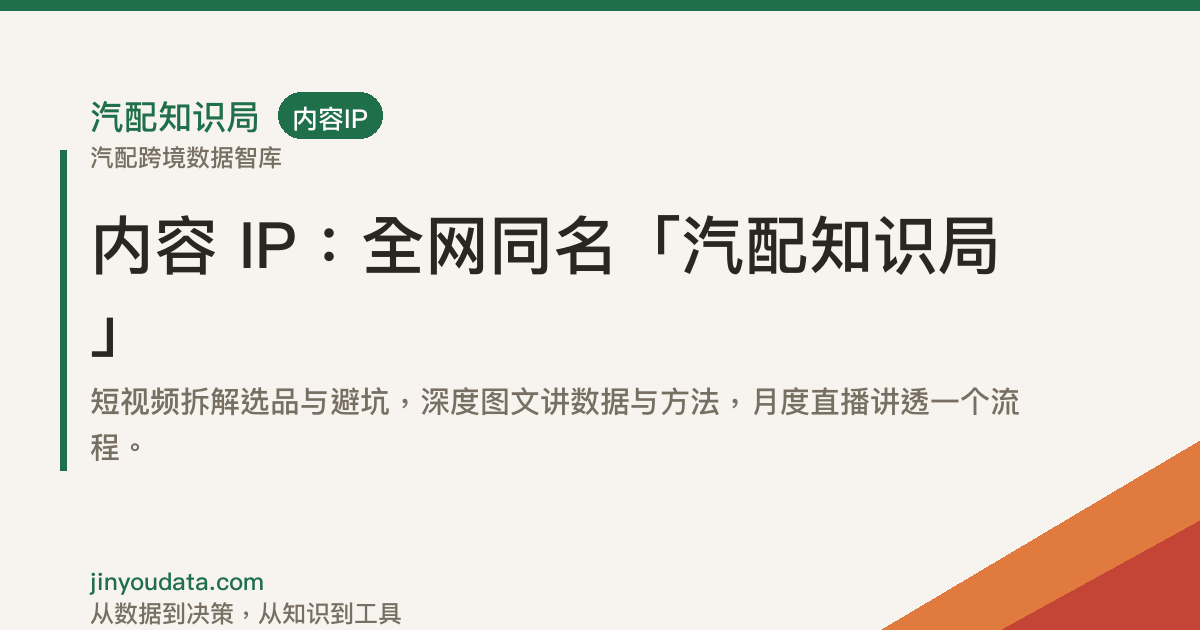
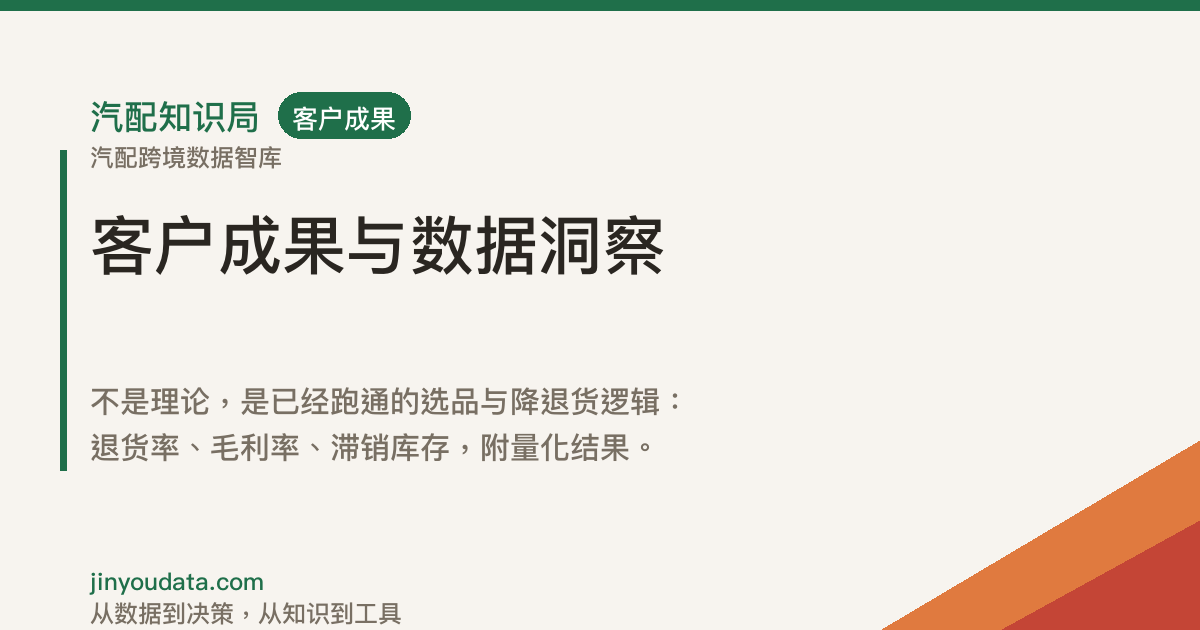
服务目录知识库最终瘦身：下线「内容 IP」卡片及遗留数据、6 项统一免费、PC 端 3×2 网格；全站价格口径与 OG/面包屑同步

diff --git a/lib/data.ts b/lib/data.ts
@@ -1,4 +1,4 @@
-import type { Product, ContentItem, CaseStudy, Partner, Library } from "./types";
+import type { Product, CaseStudy, Partner, Library } from "./types";
 import { fetchTable } from "./supabase";
 
 /* ============================================================
@@ -8,7 +8,7 @@ import { fetchTable } from "./supabase";
    ============================================================ */
 
 export const FALLBACK_PRODUCTS: Product[] = [
-  /* ================= 板块一 · 知识库（免费 / ¥9.9 体验价 · 构建行业认知） ================= */
+  /* ================= 板块一 · 知识库（6 项全部免费 · 加微即得 · 构建行业认知） ================= */
   {
     id: 4, slug: "knowledge-base", name: "避坑指南", icon: "book-open", library: "kb", category: "knowledge",
     positioning: "12,000+ 条踩过的坑，按场景一条条写清楚",
@@ -24,8 +24,8 @@ export const FALLBACK_PRODUCTS: Product[] = [
     problem: "决策缺数据支撑，拍脑袋交学费",
     audience: "需要决策依据的经营者与平台团队",
     deliverable: "完整报告文档 · 数据来源与口径全部注明",
-    price: "¥9.9 · 体验价",
-    cta_type: "buy", third_party_url: null, third_party_platform: "企业微信", planet_url: null,
+    price: "免费 · 联系即得",
+    cta_type: "claim", third_party_url: null, third_party_platform: "企业微信", planet_url: null,
   },
   {
     id: 2, slug: "sop-checklists", name: "合规 SOP 清单", icon: "list-checks", library: "kb", category: "knowledge",
@@ -51,8 +51,8 @@ export const FALLBACK_PRODUCTS: Product[] = [
     problem: "想提效但不知道好用的表格长什么样",
     audience: "有现成业务、想立刻提效的团队",
     deliverable: "选品评分表 / 供应商评估表 / 库存周转表 / 客服话术库",
-    price: "¥9.9 · 体验价",
-    cta_type: "buy", third_party_url: null, third_party_platform: "企业微信", planet_url: null,
+    price: "免费 · 联系即得",
+    cta_type: "claim", third_party_url: null, third_party_platform: "企业微信", planet_url: null,
   },
   {
     id: 6, slug: "case-library", name: "案例库", icon: "folder-open", library: "kb", category: "knowledge",
@@ -60,17 +60,8 @@ export const FALLBACK_PRODUCTS: Product[] = [
     problem: "想知道别人是怎么解决同类问题的",
     audience: "想直接看别人怎么解决的务实派",
     deliverable: "图文案例 · 内部资料库专栏",
-    price: "免费 · 申请解锁",
+    price: "免费 · 联系即得",
     cta_type: "claim", third_party_url: null, third_party_platform: "企业微信", planet_url: null,
-  },
-  {
-    id: 1, slug: "content-ip", name: "内容 IP", icon: "video", library: "kb", category: "knowledge",
-    positioning: "全网同名「汽配知识局」的短视频、图文与直播",
-    problem: "不了解我们，想先通过内容判断专业度",
-    audience: "所有汽配人，尤其是想先看看再决定的人",
-    deliverable: "短视频 / 深度图文 / 月度直播（回放沉淀进知识库）",
-    price: "免费 · 全网公开",
-    cta_type: "claim", third_party_url: null, third_party_platform: null, planet_url: null,
   },
 
   /* ================= 板块二 · 工具库（¥99 – ¥299 · 现成工具，直接落地） ================= */
@@ -152,14 +143,8 @@ export const FALLBACK_PRODUCTS: Product[] = [
   },
 ];
 
-export const FALLBACK_CONTENTS: ContentItem[] = [
-  { id: 1, title: "刹车片选品避坑：这 3 种货打死不能进", type: "短视频", platform: "抖音", link: "#", summary: "选品避坑、货源鉴别。", metric: "42万播放", date: "3 天前" },
-  { id: 2, title: "跨境汽配爆款拆解：利润藏在适配数据里", type: "短视频", platform: "B站", link: "#", summary: "跨境选品逻辑拆解。", metric: "18万播放", date: "1 周前" },
-  { id: 3, title: "电商渠道汽配类目 2026 价格带全景图", type: "图文", platform: "公众号", link: "#", summary: "价格带分析与决策参考。", metric: "1.2万阅读", date: "2 天前" },
-  { id: 4, title: "修理厂供应链怎么理：一场直播讲透", type: "直播回放", platform: "视频号", link: "#", summary: "供应链全流程直播。", metric: "8600 观看", date: "上周" },
-  { id: 5, title: "适配数据踩坑实录：一个 SKU 赔掉 2 万块", type: "图文", platform: "公众号", link: "#", summary: "真实踩坑复盘。", metric: "2.4万阅读", date: "1 周前" },
-  { id: 6, title: "和修理厂老板聊进货：他一年省了 18 万", type: "短视频", platform: "抖音", link: "#", summary: "真实对话访谈。", metric: "65万播放", date: "2 周前" },
-];
+/* 原「内容 IP」短视频 / 图文 / 直播兜底数据已于 2026-11-15 整体下线：
+   全站没有任何页面再消费 contents 表，卡片与数据都不留。 */
 
 export const FALLBACK_CASES: CaseStudy[] = [
   {
@@ -261,7 +246,14 @@ function sanitizeRow<T extends Record<string, unknown>>(row: T): T {
 }
 
 /** 已下线的产品 slug：即使数据库里还有旧记录，也不允许再出现在站点上 */
-const RETIRED_PRODUCT_SLUGS = new Set(["courses", "annual-pass", "corporate-training"]);
+const RETIRED_PRODUCT_SLUGS = new Set([
+  "courses",
+  "annual-pass",
+  "corporate-training",
+  // 2026-11-15 服务目录瘦身：「内容 IP」不直接产生交易，卡片已整体下线。
+  // 即使数据库里还留着旧记录，也不允许它回到官网。
+  "content-ip",
+]);
 
 /**
  * 代码里的产品目录 = 唯一真源（2026-11-14 三库定调，全站封板）。
@@ -323,10 +315,6 @@ export async function getProducts(): Promise<Product[]> {
   return [...FALLBACK_PRODUCTS, ...extras].map(
     (p) => sanitizeRow(p as unknown as Record<string, unknown>) as unknown as Product
   );
-}
-export async function getContents(): Promise<ContentItem[]> {
-  const rows = (await fetchTable<ContentItem>("contents")) ?? FALLBACK_CONTENTS;
-  return rows.map((r) => sanitizeRow(r as unknown as Record<string, unknown>) as unknown as ContentItem);
 }
 export async function getCases(): Promise<CaseStudy[]> {
   const rows = (await fetchTable<CaseStudy>("cases")) ?? FALLBACK_CASES;

diff --git a/app/reports/page.tsx b/app/reports/page.tsx
@@ -15,7 +15,7 @@ import { getProducts } from "@/lib/data";
 
 export const metadata: Metadata = buildMetadata({
   title: "报告与数据产品",
-  description: "行业报告（品类数据、价格带、竞争格局、趋势预判，¥9.9 体验价）与数据库会员（金游智库·专属查询账号，Client 只读，312 万 SKU 无限次查询，¥999 / 年）。",
+  description: "行业报告（品类数据、价格带、竞争格局、趋势预判，全部免费，加微即得）与数据库会员（金游智库·专属查询账号，Client 只读，312 万 SKU 无限次查询，¥999 / 年）。",
   path: "/reports",
   keywords: [KEYWORDS.data, KEYWORDS.nev, KEYWORDS.compliance, KEYWORDS.oe],
 });
@@ -25,19 +25,19 @@ const REPORTS = [
     name: "《中国汽配电商价格带全景 2026》",
     metric: "覆盖 12 个主流品类 · 4 个平台",
     desc: "每个品类的成交价格带分布、头部集中度、低价区陷阱，附选品价格定位建议。",
-    price: "¥9.9",
+    price: "免费 · 联系即得",
   },
   {
     name: "《跨境汽配（俄罗斯 / 欧美 / 东南亚）机会地图》",
     metric: "3 平台 · 9 个高潜品类",
     desc: "真实成交数据拆毛利结构：汇率、物流、佣金、退货，算清楚到手多少钱。",
-    price: "¥9.9",
+    price: "免费 · 联系即得",
   },
   {
     name: "《修理厂采购渠道现状调研》",
     metric: "217 份有效样本 · 6 省",
     desc: "修理厂从哪进货、为什么换供应商、对账期和适配准确率的真实要求。",
-    price: "¥9.9",
+    price: "免费 · 联系即得",
   },
 ];
 
@@ -96,7 +96,7 @@ export default async function ReportsPage() {
                   <h3 className="text-base font-bold leading-snug">{r.name}</h3>
                   <p className="text-sm leading-relaxed text-muted-foreground">{r.desc}</p>
                   <div className="mt-auto flex items-center justify-between border-t border-dashed pt-3">
-                    <span className="text-lg font-bold text-brand-red">{r.price}</span>
+                    <span className="whitespace-nowrap text-sm font-bold text-brand-red">{r.price}</span>
                     {full && <ProductCta product={full} />}
                   </div>
                 </CardContent>
@@ -106,7 +106,7 @@ export default async function ReportsPage() {
           {brief && (
             <div className="mt-6 flex flex-col items-center gap-2 rounded-xl bg-brand-green-soft p-5 text-center sm:flex-row sm:justify-between sm:text-left">
               <p className="text-sm">
-                <span className="font-bold">不想先花钱？</span>每份报告都有精华摘要版：核心数据 + 趋势判断 + 一页决策建议，免费领。
+                <span className="font-bold">不确定先看哪份？</span>每份报告都有精华摘要版：核心数据 + 趋势判断 + 一页决策建议，免费领。
               </p>
               <Button asChild variant="default" size="sm">
                 <Link href="/contact">

diff --git a/app/api/ai/route.ts b/app/api/ai/route.ts
@@ -16,7 +16,7 @@ const BodySchema = z.object({
     .max(20),
 });
 
-const SYSTEM_PROMPT = `你是「汽配知识局」官网的 AI 助手。汽配知识局是专注汽配跨境的数据智库，服务分三个板块：知识库（避坑指南、行业报告、合规 SOP，免费或 ¥9.9 体验价）、工具库（选品评分表、核价毛利计算器、库存周转模板，¥99–299）、数据库（金游智库·专属查询账号，¥999/年，312 万 SKU、OE 号匹配、万家供货商评级）。另有定制咨询、SaaS 与 AI 数据标注/模型训练合作。核心卖点是数据库账号。
+const SYSTEM_PROMPT = `你是「汽配知识局」官网的 AI 助手。汽配知识局是专注汽配跨境的数据智库，服务分三个板块：知识库（避坑指南、行业报告、合规 SOP 等 6 项，全部免费，加微即得）、工具库（选品评分表、核价毛利计算器、库存周转模板，¥99–299）、数据库（金游智库·专属查询账号，¥999/年，312 万 SKU、OE 号匹配、万家供货商评级）。另有定制咨询、SaaS 与 AI 数据标注/模型训练合作。核心卖点是数据库账号。
 
 你的职责：
 1. 用中文回答汽配行业相关问题，专业、直接、给具体动作，不说空话。
@@ -33,7 +33,7 @@ function fallbackReply(lastUserMessage: string): string {
     return "免费资料（SOP 清单、报告摘要、模板库）都由主理人一对一发送，扫码添加企业微信、备注「官网」即可领取。";
   }
   if (/价格|收费|多少钱|费用/.test(t)) {
-    return "三个板块：知识库免费或 ¥9.9 体验价，工具库 ¥99–299，数据库 ¥999/年（312 万 SKU、OE 号匹配、万家供货商评级，开通金游数据智库账号）。定制咨询 ¥30,000 起/项目。具体看 /products。";
+    return "三个板块：知识库 6 项全部免费（加微即得），工具库 ¥99–299，数据库 ¥999/年（312 万 SKU、OE 号匹配、万家供货商评级，开通金游数据智库账号）。定制咨询 ¥30,000 起/项目。具体看 /products。";
   }
   if (/合作|AI|标注|语料|评测|SaaS/.test(t)) {
     return "AI 数据合作（语料授权、标注规则、评测标准共建）和 SaaS 合作在 /partners，签 DPA 后启动。可以先在 /contact 提交意向。";

diff --git a/components/site/library-sections.tsx b/components/site/library-sections.tsx
@@ -159,7 +159,7 @@ function CollapsibleLibrary({
             <span className="text-xl font-bold md:text-2xl">{lib.name}</span>
             <span className={`text-sm font-semibold ${theme.accent}`}>{lib.tagline}</span>
             <span className="ml-auto flex shrink-0 items-center gap-2">
-              <span className="rounded-full bg-secondary px-3 py-1 text-xs font-bold text-primary">
+              <span className="whitespace-nowrap rounded-full bg-secondary px-3 py-1 text-xs font-bold text-primary">
                 {lib.price}
               </span>
               <span className="flex h-8 w-8 items-center justify-center rounded-full border border-border bg-card transition-colors group-hover:border-brand-green/50 group-hover:bg-brand-green-soft">
@@ -175,7 +175,15 @@ function CollapsibleLibrary({
 
         <div id={bodyId} role="region" aria-labelledby={titleId} className="acc-body">
           <div className="acc-inner">
-            <div className="mt-5 grid gap-3 sm:grid-cols-2 lg:grid-cols-3">
+            {/* 知识库 6 项：PC 端 md 起固定 3 列 = 完美 2 行 × 3 列，不留空位；
+                手机端单列纵向。工具库 4 项保持原来的响应式列数。 */}
+            <div
+              className={`mt-5 grid gap-3 ${
+                libKey === "kb"
+                  ? "grid-cols-1 md:grid-cols-3"
+                  : "grid-cols-1 sm:grid-cols-2 lg:grid-cols-3"
+              }`}
+            >
               {items.map((p) => (
                 <LibCard key={p.id} product={p} accent={theme.accent} />
               ))}

diff --git a/lib/types.ts b/lib/types.ts
@@ -19,7 +19,7 @@ export const LIBRARIES: Record<
     name: "知识库",
     en: "KNOWLEDGE",
     tagline: "构建行业认知",
-    price: "免费 / ¥9.9 体验价",
+    price: "全部免费（加微即得）",
     goal: "先把行业看明白",
     note: "避坑指南、行业报告、合规 SOP —— 让你在动手之前就知道哪里会踩坑。",
   },
@@ -74,17 +74,6 @@ export interface Product {
   third_party_platform: string | null;
   /** 历史字段，已废弃（原知识星球邀请链接） */
   planet_url: string | null;
-}
-
-export interface ContentItem {
-  id: number;
-  title: string;
-  type: string; // 短视频 / 图文 / 直播回放
-  platform: string; // 抖音 / 视频号 / B站 / 公众号
-  link: string;
-  summary: string;
-  metric: string; // 播放 / 阅读数据
-  date: string;
 }
 
 export interface CaseMetric {

diff --git a/app/products/page.tsx b/app/products/page.tsx
@@ -16,7 +16,7 @@ export const runtime = "edge";
 export const metadata: Metadata = buildMetadata({
   title: "服务目录",
   description:
-    "智库服务：知识库（免费 / ¥9.9 体验价，构建行业认知）→ 工具库（¥99 – ¥299，现成工具直接落地）→ 数据库（¥999 / 年，金游智库专属查询账号，看透真实利润）。",
+    "智库服务：知识库（6 项全部免费，加微即得，构建行业认知）→ 工具库（¥99 – ¥299，现成工具直接落地）→ 数据库（¥999 / 年，金游智库专属查询账号，看透真实利润）。",
   path: "/products",
   keywords: [KEYWORDS.data, KEYWORDS.oe, KEYWORDS.vin, KEYWORDS.knowledge, KEYWORDS.sop],
 });

diff --git a/scripts/gen-og.py b/scripts/gen-og.py
@@ -122,13 +122,13 @@ def draw_og(path: Path, title: str, desc: str, tag: str = "") -> None:
 # ---------- 页面清单 ----------
 PAGES = [
     ("default", "用数据洞察，化繁为金", "专注汽配跨境的数据智库：查得到的知识库 · 用得上的工具库 ·\n看透利润的数据库（312 万 SKU）", ""),
-    ("products", "智库服务：\n知识库 / 工具库 / 数据库", "知识库免费或 ¥9.9 体验价，工具库 ¥99–299，\n数据库 ¥999 / 年（312 万 SKU、OE 号匹配、万家供货商评级）。", "服务目录"),
+    ("products", "智库服务：\n知识库 / 工具库 / 数据库", "知识库 6 项全部免费（加微即得），工具库 ¥99–299，\n数据库 ¥999 / 年（312 万 SKU、OE 号匹配、万家供货商评级）。", "服务目录"),
     ("knowledge", "汽配知识库与 SOP", "12,000+ 条目的名词库、适配库、政策库、避坑库，加 6 套可打印照做的 SOP 清单与表格模板。", "知识库"),
     ("data-subscription", "数据库：312 万 SKU，看透真实利润", "开通金游智库专属查询账号：312 万 SKU 检索、OE 号匹配、万家供货商评级，¥999 / 年。", "数据库"),
     ("reports", "行业报告与金游智库账号", "品类数据、价格带、竞争格局、趋势预判；金游智库·专属查询账号按 OE 号、品牌、毛利区间自由检索 312 万条底层数据。", "报告数据"),
     ("consulting", "定制咨询：答案从 312 万条数据里来", "先用真实交易大盘把问题定义清楚，再给分阶段路线图与月度复盘。先做 30 分钟免费诊断。", "定制咨询"),
     ("partners", "SaaS 与 AI 数据合作", "面向 SaaS 的行业 Know-how 与种子用户合作；面向 AI 公司的汽配语料授权、标注规则与评测标准共建。", "生态合作"),
-    ("content", "内容 IP：全网同名「汽配知识局」", "短视频拆解选品与避坑，深度图文讲数据与方法，月度直播讲透一个流程。", "内容IP"),
+    ("content", "客户成果与数据洞察", "不是理论，是已经跑通的选品与降退货逻辑：\n退货率、毛利率、滞销库存，附量化结果。", "客户成果"),
     ("about", "关于我们：不卖货，只做数据智库", "专注汽配跨境的数据智库。不卖货、不代运营、不碰交易。知识库建认知，工具库做落地，数据库看利润。", "关于"),
     ("contact", "联系主理人：一对一交付", "官网不设表单、不收集信息、不处理支付。所有资料与诊断，均由主理人在企业微信里一对一交付。", "联系"),
     ("access", "查询我的资料权限", "本站不收款、没有站内订单。资料与交付全部在企业微信完成：扫码添加后自动下发资料库链接并邀请进群。", "资料权限"),

diff --git a/scripts/add_breadcrumb_ld.py b/scripts/add_breadcrumb_ld.py
@@ -9,7 +9,7 @@ PAGES = {
     "reports": "报告与数据产品",
     "consulting": "咨询与内训",
     "partners": "SaaS与AI合作",
-    "content": "内容IP",
+    "content": "客户成果与数据洞察",
     "cases": "案例",
     "contact": "联系与留资",
     "about": "关于我们",
